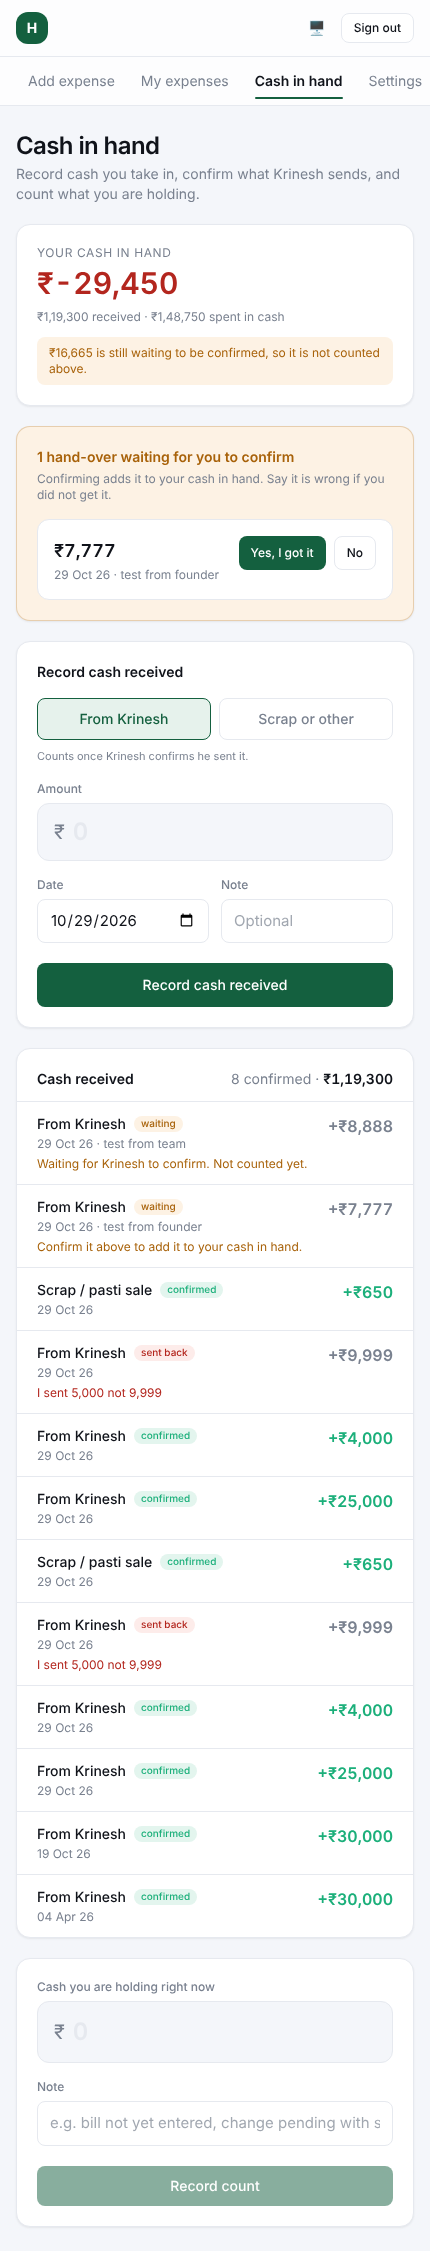
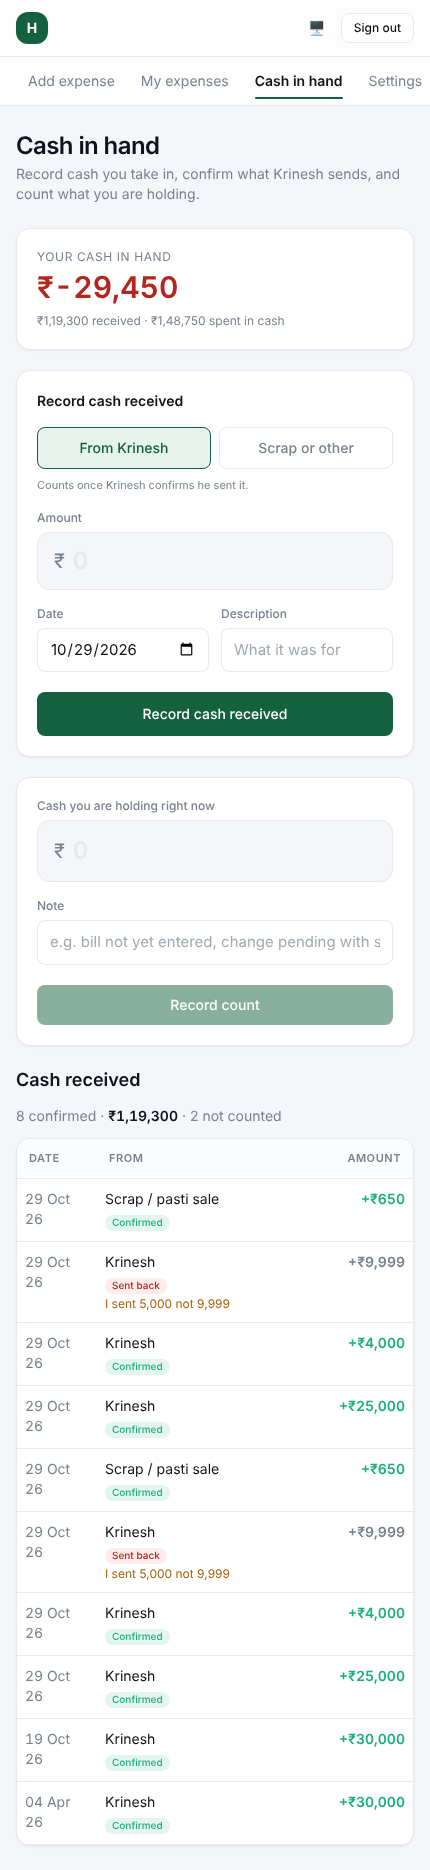
Show cash received as a full-width table, like expenses
The received history was a narrow card list on a page capped at phone width,
which made it hard to read beside the expenses table and left the description
nowhere to go.

It is now the same table the expenses page uses: Date, From, Description,
Status, Amount, across the full width. The page is a two-column layout - the
balance, confirmation prompts and the two forms on the left, the history taking
the room on the right.

The reason a row is not counted stays attached to the row rather than living in
a separate panel, and the "Note" field on the form is now called Description, so
it matches the column it ends up in.

On a phone the description, status and explanation fold under the From column
rather than scrolling off to the right. Checked: no sideways scroll, and both
the description and the explanation survive the fold.

Claude-Session: https://claude.ai/code/session_01QidiE69ZLWQEvuWqcvgLKn

diff --git a/src/components/CashInHistory.tsx b/src/components/CashInHistory.tsx
@@ -6,9 +6,9 @@ export type CashIn = {
 };
 
 const STATUS: Record<string, { label: string; cls: string }> = {
-  CONFIRMED: { label: "confirmed", cls: "bg-good-soft text-good" },
-  PENDING: { label: "waiting", cls: "bg-warn-soft text-warn" },
-  REJECTED: { label: "sent back", cls: "bg-danger-soft text-danger" },
+  CONFIRMED: { label: "Confirmed", cls: "bg-good-soft text-good" },
+  PENDING: { label: "Waiting", cls: "bg-warn-soft text-warn" },
+  REJECTED: { label: "Sent back", cls: "bg-danger-soft text-danger" },
 };
 
 const day = (iso: string) =>
@@ -16,69 +16,94 @@ const day = (iso: string) =>
     day: "2-digit", month: "short", year: "2-digit", timeZone: "UTC",
   });
 
-/**
- * Everything that has come into this team's cash, with the state of each. A row
- * still waiting is shown but marked, so the figure at the top of the page and the
- * list below it tell the same story.
- */
+/** Why a row is not counted yet, in the words that tell the reader what to do. */
+function waitingNote(r: CashIn): string | null {
+  if (r.status === "REJECTED") return r.rejectedReason ?? "Sent back by the other side.";
+  if (r.status !== "PENDING") return null;
+  return r.initiatedBy === "FOUNDER"
+    ? "Confirm it above to add it to your cash in hand."
+    : "Waiting for Krinesh to confirm. Not counted yet.";
+}
+
 export default function CashInHistory({ rows }: { rows: CashIn[] }) {
   const confirmed = rows.filter((r) => r.status === "CONFIRMED");
   const total = confirmed.reduce((a, r) => a + r.amount, 0);
 
   return (
-    <section className="card overflow-hidden">
-      <div className="flex flex-wrap items-baseline justify-between gap-2 p-5 pb-3">
-        <h2 className="text-sm font-semibold">Cash received</h2>
+    <div className="space-y-3">
+      <div className="flex flex-wrap items-baseline justify-between gap-3">
+        <h2 className="text-lg font-semibold">Cash received</h2>
         <p className="text-sm text-muted">
           {confirmed.length} confirmed · <span className="num font-semibold text-ink">{rs(total)}</span>
+          {rows.length > confirmed.length && (
+            <span className="text-muted"> · {rows.length - confirmed.length} not counted</span>
+          )}
         </p>
       </div>
 
       {rows.length === 0 ? (
-        <p className="px-5 pb-5 text-sm text-muted">
+        <p className="card p-8 text-center text-sm text-muted">
           Nothing yet. Cash Krinesh sends you, and anything you take in yourself, shows here.
         </p>
       ) : (
-        <ul className="divide-y divide-line border-t border-line">
-          {rows.map((r) => {
-            const st = STATUS[r.status] ?? STATUS.PENDING;
-            const fromFounder = r.type === "ISSUE";
-            return (
-              <li key={r.id} className="flex items-start gap-3 px-5 py-3">
-                <div className="min-w-0 flex-1">
-                  <p className="flex flex-wrap items-center gap-2 text-sm">
-                    <span className="font-medium">
-                      {fromFounder ? "From Krinesh" : (r.source ?? "Other")}
-                    </span>
-                    <span className={`chip border-transparent px-1.5 py-0 text-[10px] ${st.cls}`}>
-                      {st.label}
-                    </span>
-                  </p>
-                  <p className="mt-0.5 text-xs text-muted">
-                    {day(r.date)}
-                    {r.note ? ` · ${r.note}` : ""}
-                  </p>
-                  {r.status === "REJECTED" && r.rejectedReason && (
-                    <p className="mt-1 text-xs text-danger">{r.rejectedReason}</p>
-                  )}
-                  {r.status === "PENDING" && (
-                    <p className="mt-1 text-xs text-warn">
-                      {r.initiatedBy === "FOUNDER"
-                        ? "Confirm it above to add it to your cash in hand."
-                        : "Waiting for Krinesh to confirm. Not counted yet."}
-                    </p>
-                  )}
-                </div>
-                <p className={`num shrink-0 font-semibold ${
-                  r.status === "CONFIRMED" ? "text-good" : "text-muted"
-                }`}>
-                  +{rs(r.amount)}
-                </p>
-              </li>
-            );
-          })}
-        </ul>
+        <div className="card overflow-hidden">
+          <div className="overflow-x-auto">
+            <table className="w-full text-sm md:min-w-[680px]">
+              <thead>
+                <tr className="border-b border-line bg-raised text-left text-[11px] uppercase tracking-wider text-muted">
+                  <th className="w-20 px-3 py-3 font-semibold md:w-24">Date</th>
+                  <th className="px-3 py-3 font-semibold md:w-44">From</th>
+                  <th className="hidden px-3 py-3 font-semibold md:table-cell">Description</th>
+                  <th className="hidden w-28 px-3 py-3 font-semibold lg:table-cell">Status</th>
+                  <th className="w-28 px-3 py-3 text-right font-semibold">Amount</th>
+                </tr>
+              </thead>
+              <tbody>
+                {rows.map((r) => {
+                  const st = STATUS[r.status] ?? STATUS.PENDING;
+                  const note = waitingNote(r);
+                  const from = r.type === "ISSUE" ? "Krinesh" : (r.source ?? "Other");
+                  return (
+                    <tr key={r.id} className="border-b border-line align-top transition-colors hover:bg-raised">
+                      <td className="num px-2 py-2.5 text-muted md:whitespace-nowrap md:px-3">{day(r.date)}</td>
+                      <td className="px-2 py-2.5 md:px-3">
+                        {from}
+                        {/* the columns hidden on a phone, folded in so nothing is lost */}
+                        <span className="mt-0.5 block md:hidden">
+                          <span className={`chip border-transparent px-1.5 py-0 text-[10px] ${st.cls}`}>
+                            {st.label}
+                          </span>
+                          {r.note && <span className="ml-1.5 text-xs text-muted">{r.note}</span>}
+                          {note && <span className="mt-0.5 block text-xs text-warn">{note}</span>}
+                        </span>
+                      </td>
+                      <td className="hidden px-3 py-2.5 text-muted md:table-cell">
+                        {r.note || "—"}
+                        <span className="mt-0.5 block lg:hidden">
+                          <span className={`chip border-transparent px-1.5 py-0 text-[10px] ${st.cls}`}>
+                            {st.label}
+                          </span>
+                        </span>
+                        {note && <span className="mt-0.5 block text-xs text-warn">{note}</span>}
+                      </td>
+                      <td className="hidden px-3 py-2.5 lg:table-cell">
+                        <span className={`chip border-transparent px-2 py-0.5 text-[11px] ${st.cls}`}>
+                          {st.label}
+                        </span>
+                      </td>
+                      <td className={`num whitespace-nowrap px-2 py-2.5 text-right font-semibold md:px-3 ${
+                        r.status === "CONFIRMED" ? "text-good" : "text-muted"
+                      }`}>
+                        +{rs(r.amount)}
+                      </td>
+                    </tr>
+                  );
+                })}
+              </tbody>
+            </table>
+          </div>
+        </div>
       )}
-    </section>
+    </div>
   );
 }

diff --git a/scripts/dev/cashin-e2e.ts b/scripts/dev/cashin-e2e.ts
@@ -13,7 +13,7 @@ async function main() {
   await p.fill("#email", "wh@araviorganic.com"); await p.fill("#password", "Change@123");
   await p.click("button[type=submit]"); await p.waitForURL("**/entry");
   await p.goto(BASE + "/reconcile");
-  await p.waitForSelector("h2:has-text('Cash received')");
+  await p.getByRole("heading", { name: "Cash received", exact: true }).waitFor();
 
   const inDb = await prisma.cashTxn.findMany({
     where: { toCostCenter: "WH", voidedAt: null, type: { in: ["ISSUE", "RECEIPT"] } },
@@ -22,17 +22,19 @@ async function main() {
   const confirmed = inDb.filter((r) => r.status === "CONFIRMED");
   const total = confirmed.reduce((a, r) => a + Number(r.amount), 0);
 
-  const section = p.locator("section").filter({ hasText: "Cash received" }).first();
-  const header = (await section.locator("p").first().innerText()).trim();
-  const listed = await section.locator("li").count();
+  // the summary sits beside the heading, in the heading's own row
+  // "Record cash received" also matches a loose text search, so match the heading exactly
+  const heading = p.getByRole("heading", { name: "Cash received", exact: true });
+  const header = (await heading.locator("xpath=following-sibling::p[1]").innerText()).trim();
+  const listed = await p.locator("table tbody tr").count();
 
   console.log("db: total cash-in rows", inDb.length, "| confirmed", confirmed.length, "| confirmed total", total);
   console.log("page header:", header);
   console.log("rows listed:", listed, "(db has", inDb.length + ")", "match:", listed === Math.min(inDb.length, 300));
 
-  const text = await section.innerText();
-  console.log("shows a confirmed badge:", /confirmed/.test(text));
-  console.log("shows waiting rows too:", /waiting/.test(text));
+  const text = await p.locator("table").innerText();
+  console.log("shows a confirmed badge:", /confirmed/i.test(text));
+  console.log("shows sent-back rows too:", /sent back/i.test(text));
 
   await p.screenshot({ path: "docs/team-cash.png", fullPage: true });
   console.log("page errors:", errs.length ? errs.slice(0, 2) : "none");

diff --git a/src/app/(app)/reconcile/page.tsx b/src/app/(app)/reconcile/page.tsx
@@ -36,7 +36,7 @@ export default async function CashPage() {
   ]);
 
   return (
-    <div className="mx-auto max-w-lg space-y-5">
+    <div className="space-y-6">
       <div>
         <h1 className="text-2xl font-semibold tracking-tight">Cash in hand</h1>
         <p className="mt-0.5 text-sm text-muted">
@@ -44,6 +44,8 @@ export default async function CashPage() {
         </p>
       </div>
 
+      <div className="grid gap-5 lg:grid-cols-[360px_1fr]">
+        <div className="space-y-5">
       <div className="card p-5">
         <p className="text-xs uppercase tracking-wider text-muted">Your cash in hand</p>
         <p className={`num mt-1 text-3xl font-semibold ${float.balance < 0 ? "text-danger" : ""}`}>
@@ -68,7 +70,10 @@ export default async function CashPage() {
       />
 
       <CashReceivedForm />
+      <CountForm bookBalance={float.balance} />
+        </div>
 
+        <div className="space-y-6">
       <CashInHistory
         rows={recent.map((t) => ({
           id: t.id,
@@ -82,8 +87,6 @@ export default async function CashPage() {
           rejectedReason: t.rejectedReason,
         }))}
       />
-
-      <CountForm bookBalance={float.balance} />
 
       {counts.length > 0 && (
         <section className="card p-5">
@@ -104,6 +107,8 @@ export default async function CashPage() {
           </ul>
         </section>
       )}
+        </div>
+      </div>
     </div>
   );
 }

diff --git a/src/components/CashReceivedForm.tsx b/src/components/CashReceivedForm.tsx
@@ -56,8 +56,8 @@ export default function CashReceivedForm() {
             <input id="r-date" name="date" type="date" defaultValue={today} max={today} className="input" />
           </div>
           <div>
-            <label className="label" htmlFor="r-note">Note</label>
-            <input id="r-note" name="note" className="input" placeholder="Optional" />
+            <label className="label" htmlFor="r-note">Description</label>
+            <input id="r-note" name="note" className="input" placeholder="What it was for" />
           </div>
         </div>
       </div>
